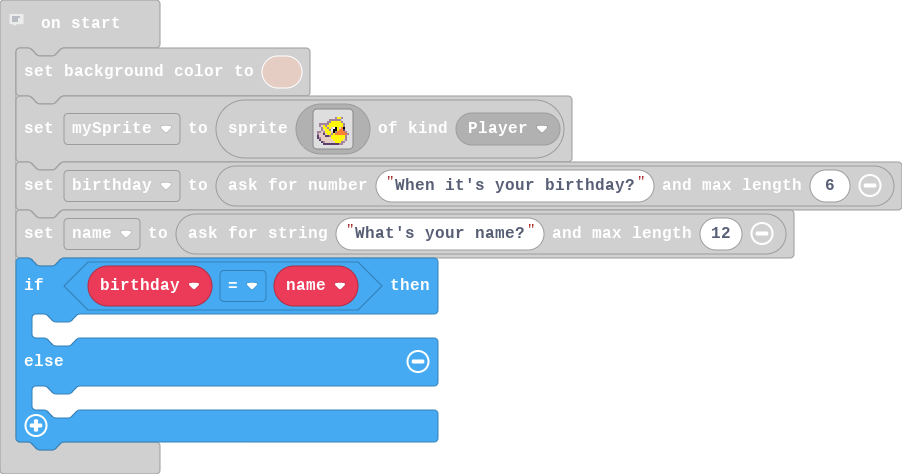
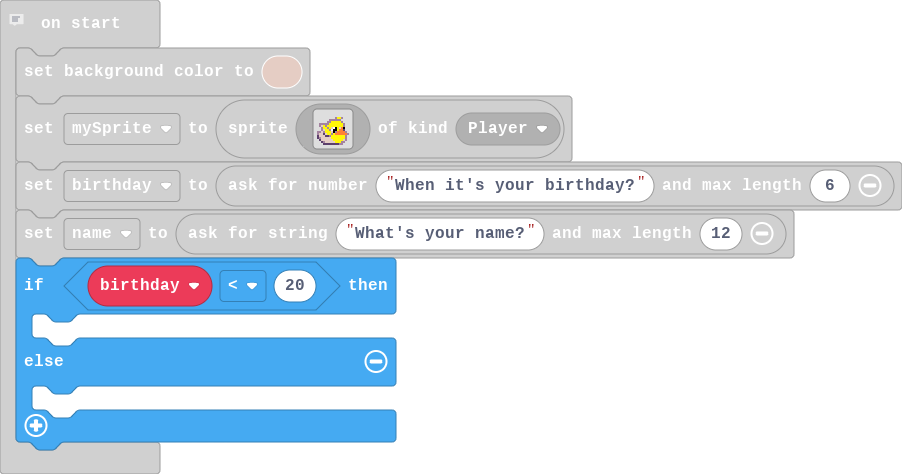
Update main.blocks, main.ts

Changed region(s): [[0.2483, 0.5316, 0.4967, 0.6793], [0.4035, 0.7089, 0.4967, 0.827], [0.4346, 0.8565, 0.4967, 0.9451]]

diff --git a/main.ts b/main.ts
@@ -20,7 +20,7 @@ let mySprite = sprites.create(img`
     `, SpriteKind.Player)
 let birthday = game.askForNumber("When it's your birthday?", 6)
 let name = game.askForString("What's your name?", 12)
-if (birthday == name) {
+if (birthday < 20) {
 	
 } else {
 	
